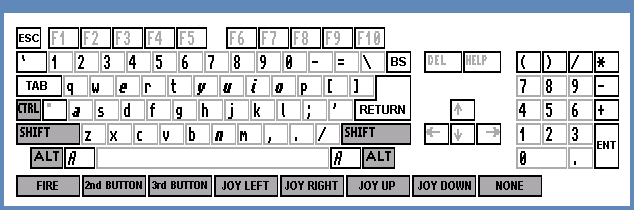
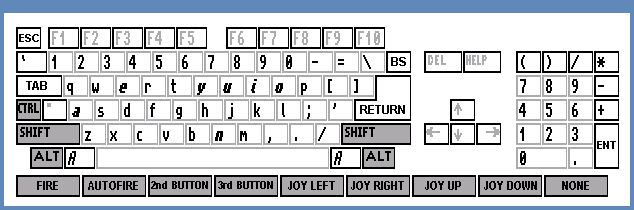
Added autofire

Changed region(s): [[0.1199, 0.8286, 0.959, 0.9429]]

diff --git a/src/gui-sdl/gui-sdl.c b/src/gui-sdl/gui-sdl.c
@@ -72,7 +72,9 @@ static const  char *input_messages[] = {
 		/*08*/		"Mouse emulation",
 		/*09*/		"^|On|Off",
 		/*10*/		"Rumble",
-		/*11*/		"^|on|off",	
+		/*11*/		"^|on|off",
+		/*12*/		"Autofire delay",
+		/*13*/		"^|3|6|9|12|15",
 		NULL
 };
 
@@ -1412,25 +1414,27 @@ static void input_options(int joy)
 	const int classic_to_sdl[] = {9, 10, 11, 12, 13, 14, 15, 16, 17, 18};
 	int sdl_key = 1;
 	const char *key;
-	int submenus[6];
-	int opt;
+	int submenus[7];
+	int opt, autofire;
 	struct virtkey *virtualkey;
 
 	memset(submenus, 0, sizeof(submenus));
 	submenus[3] = !changed_prefs.joystick_settings[1][joy].eventid[ID_AXIS_OFFSET + 6][0];
 	submenus[4] = (changed_prefs.mouse_settings[1][joy].enabled == 0);
 	submenus[5] = !changed_prefs.rumble[joy];
+	submenus[6] = changed_prefs.input_autofire_framecnt/3-1;
+	if (submenus[6]<0) submenus[6] = 0;
 
 	opt = menu_select_title("Input menu",
 			input_messages, submenus);
 	if (opt < 0)
 		return;
-	
+		
 	if (opt == 6) //Mario Kart Wheel
 	{	
 		if (!submenus[3]){
 			if (!joy) insert_keyboard_map("JOY2_HORIZ","input.1.joystick.%d.axis.6", 0);
-			else insert_keyboard_map("JOY1_HORIZ" ,"input.1.joystick.%d.axis.6", 1);}
+			else insert_keyboard_map("JOY1_HORIZ" , "input.1.joystick.%d.axis.6", 1);}
 		else{
 				changed_prefs.joystick_settings[1][joy].eventid[ID_AXIS_OFFSET + 6][0] = 0;
 				inputdevice_config_change();
@@ -1459,6 +1463,13 @@ static void input_options(int joy)
 		return;
 	}
 	
+	if (opt == 12) //Autofire delay
+	{
+		changed_prefs.input_autofire_framecnt = (submenus[6]+1)*3;
+		currprefs.input_autofire_framecnt = changed_prefs.input_autofire_framecnt;
+		return;
+	}
+	
 	virtualkey = virtkbd_get_key();
 	if (virtualkey == NULL)
 		return;
@@ -1478,7 +1489,7 @@ static void input_options(int joy)
 			break;
 		}
 	if (!strcmp(key,"JOY_FIRE_BUTTON"))
-			key= joy ? "JOY1_FIRE_BUTTON": "JOY2_FIRE_BUTTON";
+			key= joy ? "JOY1_FIRE_BUTTON.0": "JOY2_FIRE_BUTTON.0";
 			
 	if (!strcmp(key,"JOY_2ND_BUTTON"))
 			key= joy ? "JOY1_2ND_BUTTON": "JOY2_2ND_BUTTON";
@@ -1498,6 +1509,10 @@ static void input_options(int joy)
 	if (!strcmp(key,"JOY_DOWN"))
 			key= joy ? "JOY1_DOWN": "JOY2_DOWN";
 			
+	if (!strcmp(key,"JOY_AUTOFIRE_BUTTON"))
+	{
+			key= joy ? "JOY1_FIRE_BUTTON.1": "JOY2_FIRE_BUTTON.1";		
+	}		
 		
 	setup_joystick(joy, key, sdl_key);
 	

diff --git a/src/gui-sdl/VirtualKeyboard.c b/src/gui-sdl/VirtualKeyboard.c
@@ -63,7 +63,7 @@ static virtkey_t keys[KEY_COLS * KEY_ROWS] = {
   N("Sft","SHIFT_LEFT",304),K("Z",122),K("X",120),K("C",99), K("V",118), K("B",98), K("N",110), K("M",109),N(",","COMMA",44),N(".","PERIOD",46), N("/","SLASH",47), N("Sft","SHIFT_RIGHT",303), N("Lft","CURSOR_LEFT",276), N("Dwn","CURSOR_DOWN",274),  N("Rgt", "CURSOR_RIGHT",275),K("KP1",257),K("KP2",258), K("KP3",259), N("Enter","KP_ENTERENTER",271),KNL(),KNL(),
   N("Alt","ALT_LEFT",308), N("Amg","AMIGA_LEFT",310),N("space", "SPACE",32),N("Amg","AMIGA_RIGHT",309),N("Alt","ALT_RIGHT",307),KNL(),K("KP0",256),N(".","KP_PERIOD",266),N("Enter","KP_ENTER",271),KNL(),KNL(),KNL(),KNL(),KNL(),KNL(),KNL(),KNL(),KNL(),KNL(),KNL(),KNL(),
  
-  NJ("Fire","JOY_FIRE_BUTTON"),NJ("Joy 2nd button","JOY_2ND_BUTTON"),NJ("Joy 3rd button","JOY_3RD_BUTTON"), NJ("Joy left","JOY_LEFT"),NJ("Joy right","JOY_RIGHT"),NJ("Joy up","JOY_UP"),NJ("Joy down","JOY_DOWN"),D("None"),KNL(),KNL(),KNL(),KNL(),KNL(),KNL(),KNL(),KNL(),KNL(),KNL(),KNL(),KNL(), KNL()};
+  NJ("Fire","JOY_FIRE_BUTTON"),NJ("AutoFire","JOY_AUTOFIRE_BUTTON"),NJ("Joy 2nd button","JOY_2ND_BUTTON"),NJ("Joy 3rd button","JOY_3RD_BUTTON"), NJ("Joy left","JOY_LEFT"),NJ("Joy right","JOY_RIGHT"),NJ("Joy up","JOY_UP"),NJ("Joy down","JOY_DOWN"),D("None"),KNL(),KNL(),KNL(),KNL(),KNL(),KNL(),KNL(),KNL(),KNL(),KNL(),KNL(),KNL()};
 
 static int rows_margins[KEY_ROWS+1] = {26, 49, 74, 98, 122, 145, 172, 198};
 
@@ -74,7 +74,7 @@ static int buttons_margins[KEY_ROWS][KEY_COLS+1] = {
 {14,42,67,93,119,145,171,197,223,249,275,301,327,353,412,449,476,515,541,567,593,620},
 {14,80,106,132,158,184,210,236,262,288,314,340,417,449,476,515,541,567,593,620 },
 {28,63,95,329,361,396,515,567,593,620},
-{14,80,146,212,278,344,411,476,543}};
+{14,80,146,212,278,344,411,476,543,609}};
 
 extern int RATIO;
 

diff --git a/src/inputdevice.c b/src/inputdevice.c
@@ -1724,7 +1724,7 @@ void inputdevice_default_prefs (struct uae_prefs *p)
     p->input_joystick_deadzone = 33;
     p->input_joymouse_speed = 10;
     p->input_mouse_speed = 100;
-    p->input_autofire_framecnt = 10;
+    p->input_autofire_framecnt = 9;
     for (i = 0; i <= MAX_INPUT_SETTINGS; i++) {
 	set_kbr_default (p, i, 0);
 	input_get_default_mouse (p->mouse_settings[i]);
